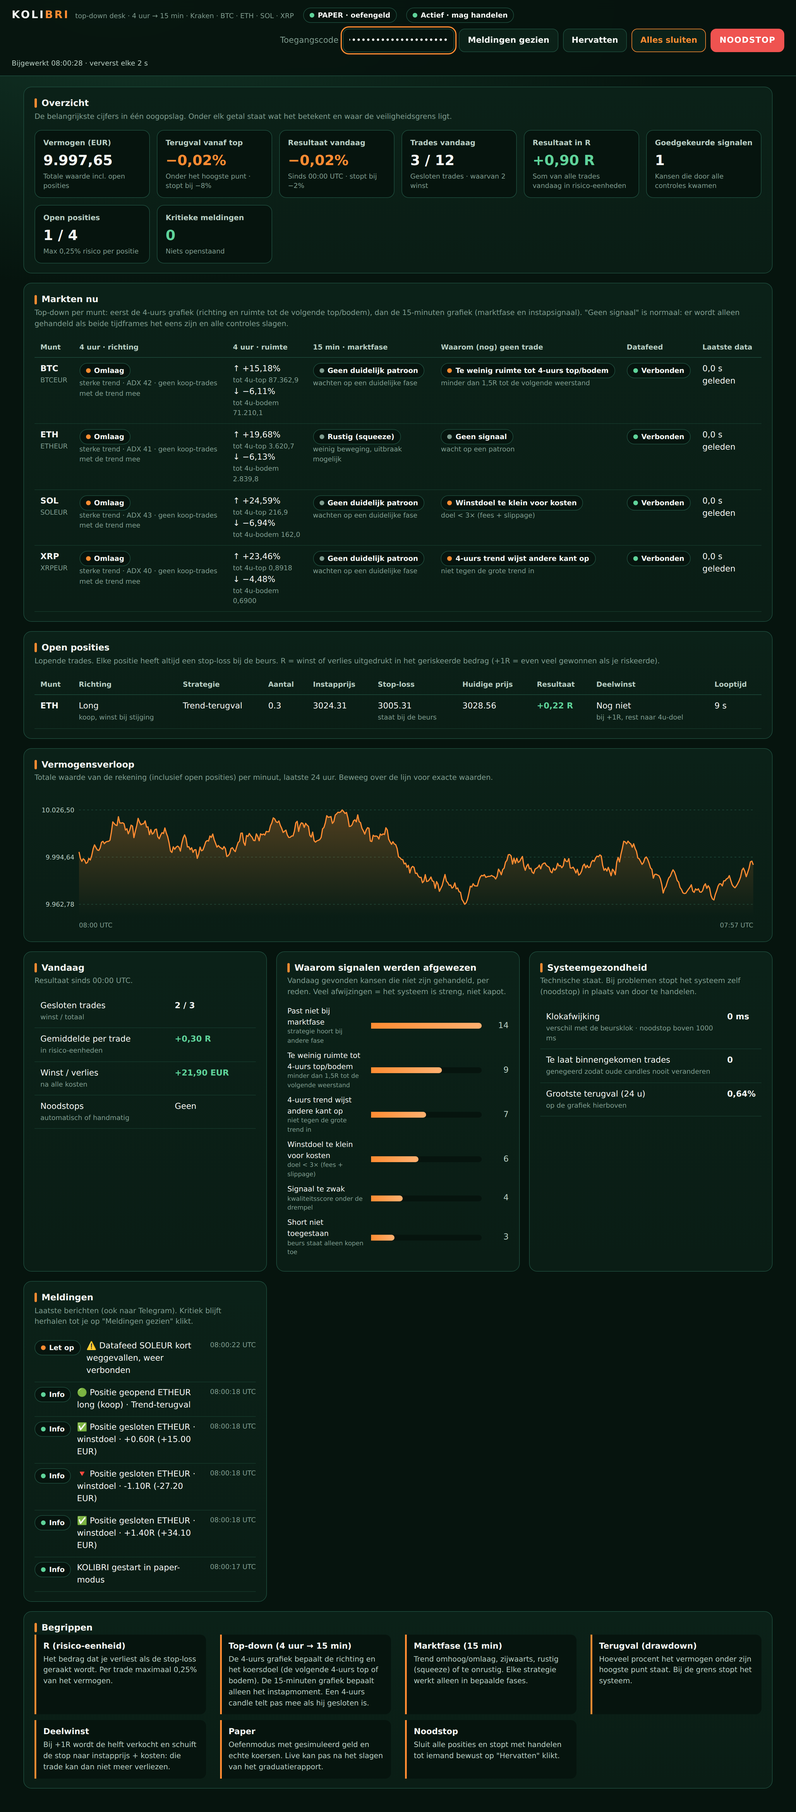
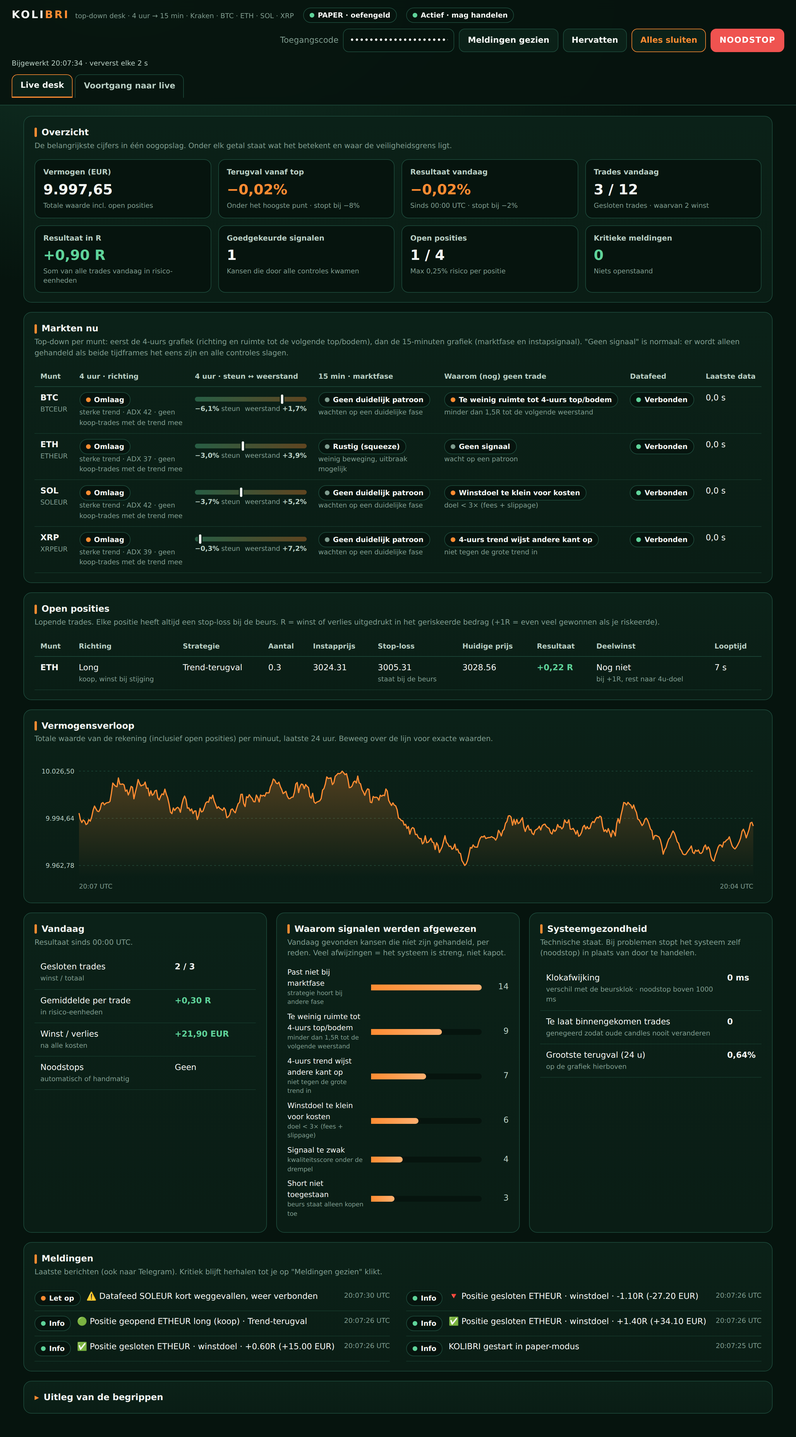
kolibri: integration fixes + dashboard polish
- graduation: expectancy checks never pass on zero trades
- drift detection wired into the daily report (Dutch WARN alerts); daily report in Dutch
- docs/CLI consistent: 120 days of history, one journal per mode
- dashboard: 4x2 KPI grid, 4h support/resistance range bar, phone card layout (no sideways scroll),
  tidy phone header, two-column alerts, collapsible glossary, readable meters on phone

Claude-Session: https://claude.ai/code/session_011Aow9J64X3ag3D3U6pFzoY

diff --git a/kolibri/src/kolibri/dashboard/index.html b/kolibri/src/kolibri/dashboard/index.html
@@ -49,7 +49,9 @@ section { background: linear-gradient(180deg, var(--forest-900), #0a1d15); borde
 h2 { margin: 0; font-size: 15px; font-weight: 700; display: flex; align-items: center; gap: 8px; }
 h2::before { content: ""; width: 4px; height: 16px; border-radius: 2px; background: var(--orange); }
 .lead { margin: 2px 0 14px; color: var(--moss); font-size: 12.5px; }
-.kpis { display: grid; gap: 12px; grid-template-columns: repeat(auto-fit, minmax(min(100%, 170px), 1fr)); }
+.kpis { display: grid; gap: 12px; grid-template-columns: repeat(4, minmax(0, 1fr)); }
+@media (max-width: 900px) { .kpis { grid-template-columns: repeat(2, minmax(0, 1fr)); } }
+@media (max-width: 380px) { .kpis { grid-template-columns: 1fr; } }
 .kpi { padding: 12px 14px; border-radius: 12px; background: var(--forest-950); border: 1px solid var(--forest-700); }
 .kpi .label { color: var(--mist); font-size: 12.5px; font-weight: 600; }
 .kpi .value { font-size: 24px; font-weight: 700; font-variant-numeric: tabular-nums; margin: 2px 0; }
@@ -81,6 +83,47 @@ td small, .sub { display: block; color: var(--moss); font-size: 11.5px; }
 dl.glossary { display: grid; grid-template-columns: repeat(auto-fit, minmax(min(100%, 280px), 1fr)); gap: 10px 24px; margin: 0; }
 dl.glossary div { padding: 10px 12px; border-left: 3px solid var(--orange); background: var(--forest-950); border-radius: 0 10px 10px 0; }
 dl.glossary dt { font-weight: 700; } dl.glossary dd { margin: 2px 0 0; color: var(--mist); font-size: 12.5px; }
+/* phone header: token full width, actions as a tidy 2x2 grid */
+@media (max-width: 640px) {
+  header { padding: 10px 14px; gap: 8px; }
+  .actions { margin-left: 0; width: 100%; display: grid; grid-template-columns: 1fr 1fr; }
+  .actions label { display: none; }
+  .actions input { grid-column: 1 / -1; width: 100%; }
+  .kpi .value { font-size: 20px; }
+  main { padding: 14px 12px 32px; }
+}
+/* phone: table rows become cards (no sideways scrolling) */
+@media (max-width: 640px) {
+  table.cards thead { display: none; }
+  table.cards, table.cards tbody { display: block; }
+  table.cards tr { display: grid; grid-template-columns: 1fr 1fr; gap: 10px 14px; padding: 14px 0;
+    border-bottom: 1px solid var(--forest-700); }
+  table.cards td { display: block; border: none; padding: 0; white-space: normal; min-width: 0; }
+  table.cards td.head { grid-column: 1 / -1; font-size: 16px; }
+  table.cards td.head small { display: inline; margin-left: 8px; }
+  table.cards td.full { grid-column: 1 / -1; }
+  table.cards td[data-label]::before { content: attr(data-label); display: block; margin-bottom: 4px; font-size: 10.5px;
+    letter-spacing: .06em; text-transform: uppercase; color: var(--moss); }
+  table.cards td[colspan] { grid-column: 1 / -1; }
+  table.cards .chip { white-space: normal; max-width: 100%; }
+  table.cards td.why { grid-column: 1 / -1; order: -1; }  /* the most important line first */
+  table.cards td.head { order: -2; }
+  .scroll { overflow: visible; }
+}
+/* 4h range: where price sits between the nearest 4h support and resistance */
+.range { position: relative; height: 8px; min-width: 120px; margin: 8px 0 4px; border-radius: 4px;
+  background: linear-gradient(90deg, rgba(95,211,154,.35), rgba(255,140,50,.35)); }
+.range i { position: absolute; top: -4px; width: 4px; height: 16px; margin-left: -2px; border-radius: 2px; background: var(--white);
+  box-shadow: 0 0 0 2px var(--forest-900); }
+.range-lbl { display: flex; justify-content: space-between; gap: 8px; font-size: 11.5px; color: var(--moss); white-space: nowrap; }
+.range-lbl b { color: var(--mist); font-weight: 600; }
+#alerts { columns: 2 340px; column-gap: 28px; } #alerts .alert { break-inside: avoid; }
+details.glossary-box > summary { cursor: pointer; list-style: none; display: flex; align-items: center; gap: 8px; font-weight: 700; font-size: 15px; }
+details.glossary-box > summary::before { content: "▸"; color: var(--orange); transition: transform .15s; }
+details.glossary-box[open] > summary::before { transform: rotate(90deg); }
+details.glossary-box > summary::-webkit-details-marker { display: none; }
+details.glossary-box[open] > summary { margin-bottom: 12px; }
+@media (prefers-reduced-motion: reduce) { details.glossary-box > summary::before { transition: none; } }
 /* tabs + progress view */
 main[hidden] { display: none; }
 button:disabled { opacity: .45; cursor: not-allowed; }
@@ -122,6 +165,10 @@ button:disabled { opacity: .45; cursor: not-allowed; }
 .bar2 { height: 10px; border-radius: 0 5px 5px 0; background: var(--forest-950); overflow: hidden; }
 .bar2 i { display: block; height: 100%; border-radius: 0 5px 5px 0; background: var(--orange); }
 .bar2 i.full { background: var(--mint); }
+@media (max-width: 640px) {
+  .meter { grid-template-columns: 1fr auto; gap: 6px 12px; }
+  .meter .bar2 { grid-column: 1 / -1; grid-row: 2; }
+}
 h4.group { margin: 14px 0 2px; font-size: 12px; text-transform: uppercase; letter-spacing: .08em; color: var(--mist); }
 </style>
 </head>
@@ -154,15 +201,15 @@ h4.group { margin: 14px 0 2px; font-size: 12px; text-transform: uppercase; lette
   <section class="wide">
     <h2>Markten nu</h2>
     <p class="lead">Top-down per munt: eerst de 4-uurs grafiek (richting en ruimte tot de volgende top/bodem), dan de 15-minuten grafiek (marktfase en instapsignaal). "Geen signaal" is normaal: er wordt alleen gehandeld als beide tijdframes het eens zijn en alle controles slagen.</p>
-    <div class="scroll"><table>
-      <thead><tr><th>Munt</th><th>4 uur · richting</th><th>4 uur · ruimte</th><th>15 min · marktfase</th><th>Waarom (nog) geen trade</th><th>Datafeed</th><th>Laatste data</th></tr></thead>
+    <div class="scroll"><table class="cards">
+      <thead><tr><th>Munt</th><th>4 uur · richting</th><th>4 uur · steun ↔ weerstand</th><th>15 min · marktfase</th><th>Waarom (nog) geen trade</th><th>Datafeed</th><th title="Hoe lang geleden de laatste koers binnenkwam">Laatste data</th></tr></thead>
       <tbody id="syms"></tbody></table></div>
   </section>
 
   <section class="wide">
     <h2>Open posities</h2>
     <p class="lead">Lopende trades. Elke positie heeft altijd een stop-loss bij de beurs. R = winst of verlies uitgedrukt in het geriskeerde bedrag (+1R = even veel gewonnen als je riskeerde).</p>
-    <div class="scroll"><table>
+    <div class="scroll"><table class="cards">
       <thead><tr><th>Munt</th><th>Richting</th><th>Strategie</th><th>Aantal</th><th>Instapprijs</th><th>Stop-loss</th><th>Huidige prijs</th><th>Resultaat</th><th>Deelwinst</th><th>Looptijd</th></tr></thead>
       <tbody id="pos"></tbody></table></div>
   </section>
@@ -191,14 +238,14 @@ h4.group { margin: 14px 0 2px; font-size: 12px; text-transform: uppercase; lette
     <div id="health"></div>
   </section>
 
-  <section>
+  <section class="wide">
     <h2>Meldingen</h2>
     <p class="lead">Laatste berichten (ook naar Telegram). Kritiek blijft herhalen tot je op "Meldingen gezien" klikt.</p>
     <div id="alerts"></div>
   </section>
 
   <section class="wide">
-    <h2>Begrippen</h2>
+    <details class="glossary-box"><summary>Uitleg van de begrippen</summary>
     <dl class="glossary">
       <div><dt>R (risico-eenheid)</dt><dd>Het bedrag dat je verliest als de stop-loss geraakt wordt. Per trade maximaal <span class="lim-risk">0,25</span>% van het vermogen.</dd></div>
       <div><dt>Top-down (4 uur → 15 min)</dt><dd>De 4-uurs grafiek bepaalt de richting en het koersdoel (de volgende 4-uurs top of bodem). De 15-minuten grafiek bepaalt alleen het instapmoment. Een 4-uurs candle telt pas mee als hij gesloten is.</dd></div>
@@ -207,7 +254,7 @@ h4.group { margin: 14px 0 2px; font-size: 12px; text-transform: uppercase; lette
       <div><dt>Deelwinst</dt><dd>Bij +1R wordt de helft verkocht en schuift de stop naar instapprijs + kosten: die trade kan dan niet meer verliezen.</dd></div>
       <div><dt>Paper</dt><dd>Oefenmodus met gesimuleerd geld en echte koersen. Live kan pas na het slagen van het graduatierapport.</dd></div>
       <div><dt>Noodstop</dt><dd>Sluit alle posities en stopt met handelen tot iemand bewust op "Hervatten" klikt.</dd></div>
-    </dl>
+    </dl></details>
   </section>
 </main>
 <main id="prog" role="tabpanel" aria-labelledby="t-prog" hidden>
@@ -386,23 +433,31 @@ function render(s) {
   $("syms").innerHTML = syms.map(k => {
     const h = s.health[k] || {}, [rn, rc] = REGIME[s.regimes[k]] || ["—", "neutral"], [gn, gh, gc] = gate(s.gates[k]);
     const c = (s.context || {})[k], [tn, tc, th] = trend4h(c);
-    const room = c ? `↑ ${signed((c.hi_4h / c.close - 1) * 100)}%<small>tot 4u-top ${nl(c.hi_4h, c.hi_4h < 10 ? 4 : 1)}</small>`
-      + `↓ ${signed((c.lo_4h / c.close - 1) * 100)}%<small>tot 4u-bodem ${nl(c.lo_4h, c.lo_4h < 10 ? 4 : 1)}</small>` : "—";
-    return `<tr><td><b>${esc(k.replace(QUOTE, ""))}</b><small>${esc(k)}</small></td>
-      <td><span class="chip ${tc}">${tn}</span><small>${esc(th)}</small></td><td>${room}</td>
-      <td><span class="chip ${rc}">${rn}</span><small>${esc(REGIME_HELP[s.regimes[k]] || "")}</small></td>
-      <td><span class="chip ${gc}">${esc(gn)}</span><small>${esc(gh)}</small></td>
-      <td><span class="chip ${h.connected ? "good" : "crit"}">${h.connected ? "Verbonden" : "Verbroken"}</span></td>
-      <td>${h.tick_age_s == null ? "—" : nl(h.tick_age_s, 1) + " s geleden"}</td></tr>`;
+    let room = "—";
+    if (c) {
+      const up = c.hi_4h > c.close, dn = c.lo_4h < c.close, span = c.hi_4h - c.lo_4h;
+      const pos = up && dn && span > 0 ? (c.close - c.lo_4h) / span * 100 : up ? 0 : 100;
+      const d = c.close < 10 ? 4 : 1;
+      room = `<div class="range" title="Prijs tussen 4u-steun ${nl(c.lo_4h, d)} en 4u-weerstand ${nl(c.hi_4h, d)}"><i style="left:${pos.toFixed(1)}%"></i></div>
+        <div class="range-lbl"><span>${dn ? `<b>${signed((c.lo_4h / c.close - 1) * 100, 1)}%</b> steun` : "geen steun"}</span>
+        <span>${up ? `weerstand <b>${signed((c.hi_4h / c.close - 1) * 100, 1)}%</b>` : "vrije ruimte ↑"}</span></div>`;
+    }
+    return `<tr><td class="head"><b>${esc(k.replace(QUOTE, ""))}</b><small>${esc(k)}</small></td>
+      <td data-label="4 uur · richting"><span class="chip ${tc}">${tn}</span><small>${esc(th)}</small></td>
+      <td data-label="4 uur · steun ↔ weerstand" class="full">${room}</td>
+      <td data-label="15 min · marktfase"><span class="chip ${rc}">${rn}</span><small>${esc(REGIME_HELP[s.regimes[k]] || "")}</small></td>
+      <td data-label="Waarom (nog) geen trade" class="why"><span class="chip ${gc}">${esc(gn)}</span><small>${esc(gh)}</small></td>
+      <td data-label="Datafeed"><span class="chip ${h.connected ? "good" : "crit"}">${h.connected ? "Verbonden" : "Verbroken"}</span></td>
+      <td data-label="Laatste data">${h.tick_age_s == null ? "—" : nl(h.tick_age_s, 1) + " s"}</td></tr>`;
   }).join("") || `<tr><td colspan="7" class="muted">Wachten op marktdata…</td></tr>`;
 
   $("pos").innerHTML = (s.positions || []).length ? s.positions.map(p => `<tr>
-      <td><b>${esc(p.symbol.replace(QUOTE, ""))}</b></td>
-      <td>${p.direction === "long" ? "Long<small>koop, winst bij stijging</small>" : "Short<small>winst bij daling</small>"}</td>
-      <td>${esc(SETUP[p.setup] || p.setup)}</td><td>${esc(p.qty)}</td><td>${esc(p.entry)}</td>
-      <td>${esc(p.stop)}<small>staat bij de beurs</small></td><td>${esc(p.mark)}</td>
-      <td class="${cls(p.r)}"><b>${signed(p.r)} R</b></td>
-      <td>${p.tp1_done ? "Ja<small>stop op instap + kosten</small>" : "Nog niet<small>bij +1R, rest naar 4u-doel</small>"}</td><td>${age(p.age_s)}</td></tr>`).join("")
+      <td class="head"><b>${esc(p.symbol.replace(QUOTE, ""))}</b></td>
+      <td data-label="Richting">${p.direction === "long" ? "Long<small>koop, winst bij stijging</small>" : "Short<small>winst bij daling</small>"}</td>
+      <td data-label="Strategie">${esc(SETUP[p.setup] || p.setup)}</td><td data-label="Aantal">${esc(p.qty)}</td><td data-label="Instapprijs">${esc(p.entry)}</td>
+      <td data-label="Stop-loss">${esc(p.stop)}<small>staat bij de beurs</small></td><td data-label="Huidige prijs">${esc(p.mark)}</td>
+      <td data-label="Resultaat" class="${cls(p.r)}"><b>${signed(p.r)} R</b></td>
+      <td data-label="Deelwinst">${p.tp1_done ? "Ja<small>stop op instap + kosten</small>" : "Nog niet<small>bij +1R, rest naar 4u-doel</small>"}</td><td data-label="Looptijd">${age(p.age_s)}</td></tr>`).join("")
     : `<tr><td colspan="10" class="muted">Geen open posities. Niet handelen is ook een geldige keuze.</td></tr>`;
 
   chart(s.curve);

diff --git a/kolibri/src/kolibri/runtime.py b/kolibri/src/kolibri/runtime.py
@@ -8,17 +8,19 @@ from __future__ import annotations
 
 import asyncio
 import contextlib
+import json
 import logging
 import os
 import signal
 from decimal import Decimal
+from pathlib import Path
 from typing import Any
 
 from kolibri.adapters.base import ExchangeAdapter
 from kolibri.adapters.sim import SimBroker
 from kolibri.alerts.telegram import Alert, AlertManager
 from kolibri.analyst.analyst import Health
-from kolibri.auditor.auditor import daily_report, day_stats, rejection_histogram
+from kolibri.auditor.auditor import daily_report, day_stats, drift, rejection_histogram
 from kolibri.auditor.graduation import check_graduation
 from kolibri.backtest.data import append_bars
 from kolibri.backtest.metrics import max_drawdown_pct
@@ -153,6 +155,15 @@ class Runtime:
         async with self.lock:
             await self.desk.kill(reason, now_ms())
 
+    def _baseline(self) -> dict[str, Any]:
+        """Backtest (OOS) stats from the graduation report, for drift checks."""
+        p = Path(self.cfg.graduation.report_path)
+        try:
+            stats: dict[str, Any] = json.loads(p.read_text()).get("oos_stats", {}) if p.exists() else {}
+        except ValueError:
+            stats = {}
+        return stats
+
     async def rearm(self) -> None:
         async with self.lock:
             self.desk.risk.rearm(now_ms())
@@ -187,6 +198,8 @@ class Runtime:
                 self.alerts.push(Alert("INFO", text, now / 1000))
             if now // DAY_MS != day:
                 self.alerts.push(Alert("INFO", daily_report(self.j, day * DAY_MS), now / 1000))
+                for flag in drift(self.j, self._baseline()):  # live worse than tested: tell the human
+                    self.alerts.push(Alert("WARN", f"⚠ Afwijking t.o.v. backtest: {flag}", now / 1000))
                 day = now // DAY_MS
             await self.alerts.flush()
 

diff --git a/kolibri/src/kolibri/auditor/auditor.py b/kolibri/src/kolibri/auditor/auditor.py
@@ -34,11 +34,11 @@ def day_stats(j: Journal, since_ts: int) -> dict[str, Any]:
 def daily_report(j: Journal, day_start_ts: int) -> str:
     s = day_stats(j, day_start_ts)
     rej = rejection_histogram(j, day_start_ts)
-    top = ", ".join(f"{k}:{v}" for k, v in list(rej.items())[:5]) or "none"
-    kills = "; ".join(str(k) for k in s["kills"]) or "none"
-    return (f"KOLIBRI daily report\ntrades {s['trades']} (wins {s['wins']}), sum R {s['sum_r']:+.2f}, "
-            f"avg R {s['avg_r']:+.2f}, PnL {s['pnl']:+.2f}\nintents {s['intents']}, top rejections: {top}\n"
-            f"kills: {kills}")
+    top = ", ".join(f"{k}: {v}×" for k, v in list(rej.items())[:5]) or "geen"
+    kills = "; ".join(str(k) for k in s["kills"]) or "geen"
+    return (f"📊 KOLIBRI dagrapport\nTrades: {s['trades']} (winst: {s['wins']}) · som {s['sum_r']:+.2f} R · "
+            f"gemiddeld {s['avg_r']:+.2f} R · resultaat {s['pnl']:+.2f}\nGoedgekeurde signalen: {s['intents']} · "
+            f"meest afgewezen op: {top}\nNoodstops: {kills}")
 
 
 def drift(j: Journal, baseline: dict[str, Any], since_ts: int = 0, min_trades: int = 30) -> list[str]:
@@ -51,7 +51,7 @@ def drift(j: Journal, baseline: dict[str, Any], since_ts: int = 0, min_trades: i
     live_wr = sum(1 for r in rs if r > 0) / len(rs)
     flags = []
     if live_exp < baseline.get("expectancy_r", 0.0) - 0.15:
-        flags.append(f"expectancy drift: live {live_exp:.3f}R vs backtest {baseline['expectancy_r']:.3f}R")
+        flags.append(f"gemiddelde per trade live {live_exp:+.2f} R vs backtest {baseline['expectancy_r']:+.2f} R")
     if live_wr < baseline.get("win_rate", 0.0) - 0.10:
-        flags.append(f"win-rate drift: live {live_wr:.1%} vs backtest {baseline['win_rate']:.1%}")
+        flags.append(f"winstpercentage live {live_wr:.0%} vs backtest {baseline['win_rate']:.0%}")
     return flags

diff --git a/kolibri/src/kolibri/auditor/graduation.py b/kolibri/src/kolibri/auditor/graduation.py
@@ -145,7 +145,7 @@ def build_report(cfg: Config, bars: dict[str, list[Bar]], paper_journal: str | P
     pst = summarize(pt, curve_of(pt))
     canary = [_check("paper.days", days, ">=", g.min_paper_days),
               _check("paper.trades_for_canary", len(pt), ">=", g.canary_min_paper_trades),
-              _check("paper.expectancy_not_negative", pst["expectancy_r"], ">=", 0.0)]
+              _nonneg("paper.expectancy_not_negative", pt, pst)]
     checks += [c | {"stage": "canary"} for c in canary]
     checks += [c | {"stage": "live"} for c in _core_checks("paper", pst, cfg, g.paper_min_trades)]
 
@@ -154,8 +154,8 @@ def build_report(cfg: Config, bars: dict[str, list[Bar]], paper_journal: str | P
     auto_kills = _auto_kills(live_journal) if live_journal else 0
     checks += [c | {"stage": "live"} for c in (
         _check("canary.trades", len(lt), ">=", g.canary_min_live_trades),
-        _check("canary.expectancy_not_negative", lst["expectancy_r"], ">=", 0.0),
-        _check("canary.automatic_kills", auto_kills, "<=", 0),
+        _nonneg("canary.expectancy_not_negative", lt, lst),
+        _check("canary.automatic_kills", auto_kills, "<=", 0) | ({} if lt else {"pass": False}),
     )]
 
     stage = stage_of(checks)
@@ -175,6 +175,13 @@ def build_report(cfg: Config, bars: dict[str, list[Bar]], paper_journal: str | P
         "paper_trades": len(pt),
         "canary_trades": len(lt),
     }
+
+
+def _nonneg(name: str, trades: list[ClosedTrade], st: dict[str, Any]) -> dict[str, Any]:
+    """Expectancy >= 0, but never passes on zero trades (an empty journal proves nothing)."""
+    if not trades:
+        return {"name": name, "value": "geen trades", "op": ">=", "threshold": 0.0, "pass": False}
+    return _check(name, st["expectancy_r"], ">=", 0.0)
 
 
 def stage_of(checks: list[dict[str, Any]]) -> str:

diff --git a/kolibri/src/kolibri/__main__.py b/kolibri/src/kolibri/__main__.py
@@ -1,7 +1,7 @@
 """KOLIBRI command line.
 
   kolibri run                      # paper by default; live needs MODE=live + LIVE_CONFIRM + graduation
-  kolibri download --days 90       # Kraken public trades -> 1m bars in data/history (slow, resumable)
+  kolibri download --days 120      # Kraken public trades -> 1m bars in data/history (slow, resumable)
   kolibri check-live               # read-only: Kraken keys, balances, filters and YOUR fee tier vs config
   kolibri backtest [--days N | --synthetic N]
   kolibri optimize --days 120 [--apply]   # robust parameter search + win-rate calibration (holdout-checked)
@@ -43,7 +43,7 @@ def main(argv: list[str] | None = None) -> None:
     sub = p.add_subparsers(dest="cmd", required=True)
     sub.add_parser("run")
     d = sub.add_parser("download")
-    d.add_argument("--days", type=int, default=180)
+    d.add_argument("--days", type=int, default=120)
     for name in ("backtest", "graduate", "optimize"):
         b = sub.add_parser(name)
         b.add_argument("--days", type=int)

diff --git a/kolibri/tests/test_progress.py b/kolibri/tests/test_progress.py
@@ -55,3 +55,14 @@ def test_build_progress_and_standalone_dashboard(cfg: Config, tmp_path: Path,
     assert client.get("/api/progress", headers=ok).json()["direction"]["level"] == "good"
     assert client.get("/api/state", headers=ok).status_code == 409  # no desk running
     assert client.post("/api/kill", headers=ok).status_code == 409
+
+
+def test_drift_flags_live_worse_than_backtest() -> None:
+    from kolibri.auditor.auditor import drift
+
+    j = Journal()
+    for i in range(40):
+        j.emit("trade", T0 + i, "BTCEUR", trade={"r": "-0.2" if i % 2 else "0.1"})
+    flags = drift(j, {"expectancy_r": 0.3, "win_rate": 0.7})
+    assert len(flags) == 2 and "backtest" in flags[0]
+    assert drift(j, {"expectancy_r": -0.5, "win_rate": 0.4}) == []

diff --git a/kolibri/src/kolibri/auditor/preflight.py b/kolibri/src/kolibri/auditor/preflight.py
@@ -60,7 +60,7 @@ def checklist(cfg: Config) -> list[tuple[str, list[Item]]]:
     worst = min(hist.values())
     sections.append(("1. Historische data", [
         Item(worst >= cfg.warmup_days, f"minste historie: {worst:.0f} dagen (minimaal {cfg.warmup_days} om te starten)",
-             "kolibri download --days 90"),
+             "kolibri download --days 120"),
         Item(worst >= 90 or None, f"voor betrouwbare backtests/graduatie: >= 90 dagen (nu {worst:.0f})",
              "kolibri download --days 120"),
     ]))

diff --git a/kolibri/src/kolibri/adapters/base.py b/kolibri/src/kolibri/adapters/base.py
@@ -1,4 +1,4 @@
-"""Exchange adapter contract shared by the SimBroker (backtest + paper) and the live Binance adapter.
+"""Exchange adapter contract shared by the SimBroker (backtest + paper) and the live Kraken adapter.
 
 Adapters report order state asynchronously through the listener; the Executioner never assumes a
 call's effect until the matching OrderUpdate arrives."""

diff --git a/kolibri/RUNBOOK.md b/kolibri/RUNBOOK.md
@@ -1,6 +1,6 @@
 # KOLIBRI runbook
 
-All times UTC. State (halts, equity anchors, journal) lives in `data/kolibri.sqlite` and survives restarts.
+All times UTC. State (halts, equity anchors, journal) lives in `data/kolibri-paper.sqlite` / `data/kolibri-live.sqlite` (one journal per mode) and survives restarts.
 
 ## Start / stop
 
@@ -26,7 +26,7 @@ The dashboard port is bound to 127.0.0.1 on the host. Never publish it; reach it
 
 ## Recover after a halt
 
-1. Read why: dashboard header / Telegram / `sqlite3 data/kolibri.sqlite "select * from events where kind='kill' order by id desc limit 5"`.
+1. Read why: dashboard header / Telegram / `sqlite3 data/kolibri-live.sqlite "select * from events where kind='kill' order by id desc limit 5"`.
 2. Check the venue UI: no open orders, no unexpected balances in the trading sub-account.
 3. Fix the cause (network, keys, clock: `chronyc tracking`, venue incident).
 4. Re-arm: dashboard **Re-arm**, or offline `kolibri rearm` (also re-anchors drawdown/week at current equity).
@@ -43,11 +43,11 @@ intentional (fail closed); do not "fix" it by skipping reconciliation.
 The operator's version, in Dutch with commands and go/stop criteria per phase, is
 [LIVE_TESTPLAN.md](LIVE_TESTPLAN.md); `kolibri preflight` shows the current position. Summary:
 
-1. `kolibri download --days 90` (hours: Kraken's public trade endpoint is rate limited; it resumes
+1. `kolibri download --days 120` (hours: Kraken's public trade endpoint is rate limited; it resumes
    where it stopped) → `kolibri backtest` → `kolibri graduate` (walk-forward OOS, ±20 %
    perturbation, Monte Carlo). Fix nothing by curve-fitting; ≤ 12 tunables.
 2. Paper ≥ 2 weeks: `kolibri run` with `MODE=paper`. Then
-   `kolibri graduate --paper-journal data/kolibri.sqlite`.
+   `kolibri graduate --days 120` (reads the paper and live journals automatically).
 3. Kraken has no spot testnet. Instead: `kolibri check-live` with the live keys (read-only: prints
    balances, verifies tick / lot / minimum order size and the fee tier Kraken really charges you;
    refuses on any mismatch). Then **canary**: a report with stage `canary` lets live run with every

diff --git a/kolibri/REVIEW_LOG.md b/kolibri/REVIEW_LOG.md
@@ -78,3 +78,13 @@ full suite green. Risk + execution coverage is enforced ≥ 85 % in CI.
 | 39 | Overfitting | an optimiser picking the best grid cell overfits | holdout never seen, fold-median − ½ spread, neighbour smoothing, margin vs current, holdout must not get worse | `test_robust_score_rejects_thin_folds`, synthetic run refuses to change |
 | 40 | Overfitting | calibrating win rates on a handful of trades | ≥ 30 trades per setup, shrinkage to 50 %, clamped 15–85 % | `test_calibration_needs_enough_trades_and_shrinks` |
 | 41 | Safety | 300 paper trades is unreachable at this horizon, so the old gate made live impossible rather than safe | staged graduation: canary (tiny real orders) then live; live still needs paper quality bars + clean canary | `test_stage_ladder`, `test_canary_caps_order_value` |
+
+## Integration + polish re-review
+
+| # | Area | Issue | Fix | Covered by |
+|---|---|---|---|---|
+| 42 | Gates | "expectancy ≥ 0" graduation checks passed with zero trades (empty journal looked green) | no trades → check fails with "geen trades" | `test_live_start_reports_canary_stage`, e2e `graduate` run |
+| 43 | Integration | drift detection (live vs backtest) existed but was never called | runs with the daily report; WARN alerts in Dutch | `test_drift_flags_live_worse_than_backtest` |
+| 44 | Consistency | docs / CLI disagreed on history length (90 vs 120 days) and named the old single journal | 120 days everywhere; journal per mode in RUNBOOK | grep check |
+| 45 | UX | Telegram daily report was the only English message | Dutch, same tone as the dashboard | — |
+| 46 | UX | phone: tables scrolled sideways and long labels overflowed (page 499 px wide at 390) | rows become cards, "why no trade" first, labels wrap; KPI grid 4/2 columns; 4h support/resistance as a range bar; glossary collapsible | headless Chromium at 390 px: no horizontal scroll on both tabs |
